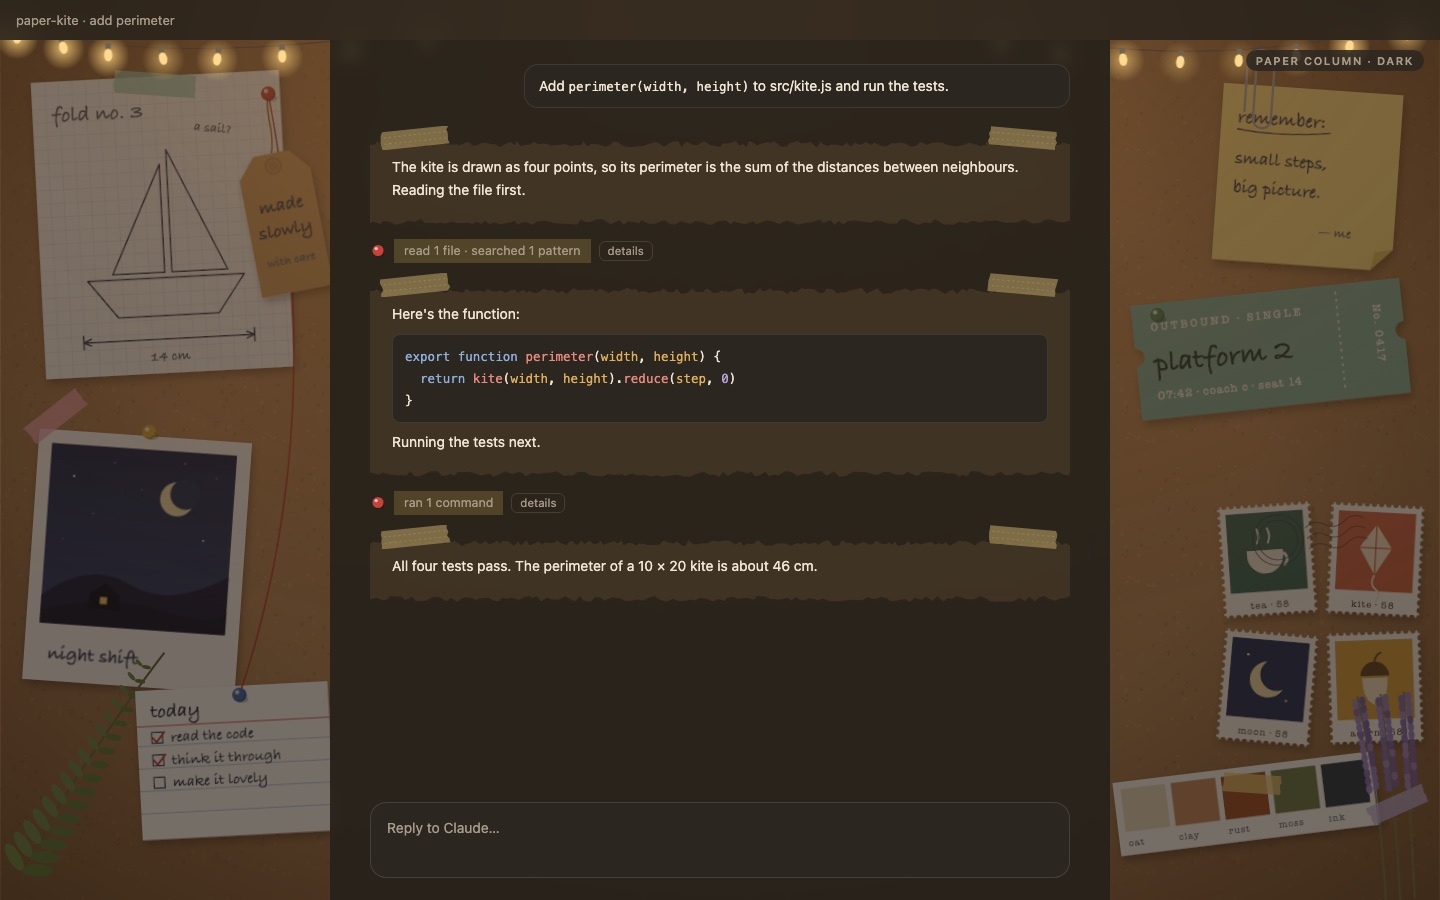
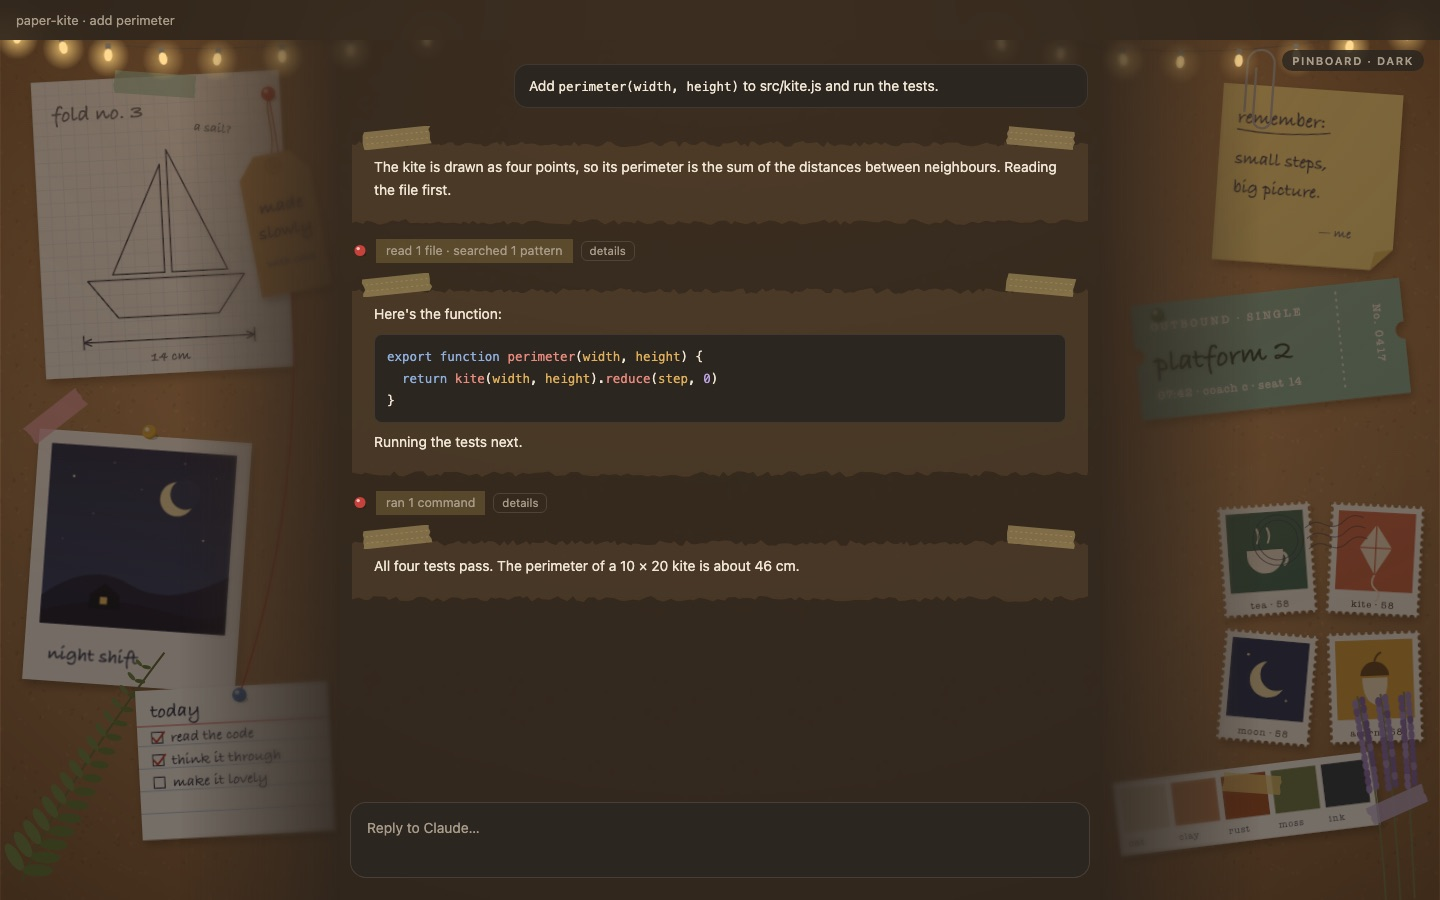
0.3.1: warm kraft-cream column
The app frosts a feathered column under the words; at 90% white it read as
a flat white panel on the cork. Now it takes warmer cream surfaces at 80%
with a light blur, so the cork's grain shows through and it reads as paper.
Fresh previews.

Changed region(s): [[0.1562, 0.0311, 0.9375, 0.9956], [0.375, 0.0933, 0.6562, 0.1244], [0.3438, 0.2489, 0.4375, 0.3111]]

diff --git a/hooks/register.tsx b/hooks/register.tsx
@@ -19,9 +19,9 @@ const { theme, problems } = makeColors({
   light: {
     gray: {
       anchors: {
-        'surface-0': '#efe6d4',
-        'surface-1': '#f5eddd',
-        'surface-2': '#faf5ea',
+        'surface-0': '#e9dbc1',
+        'surface-1': '#ecdcc0',
+        'surface-2': '#f4ead7',
         'text-primary': '#2b231b',
         'text-secondary': '#54483a',
         'text-muted': '#6b5e4d',
@@ -32,7 +32,7 @@ const { theme, problems } = makeColors({
     gray: {
       anchors: {
         'surface-0': '#1d1915',
-        'surface-1': '#25201a',
+        'surface-1': '#2a231b',
         'surface-2': '#2c2620',
         'surface-3': '#312a23',
         'text-primary': '#f0e6d4',
@@ -43,11 +43,12 @@ const { theme, problems } = makeColors({
   },
 })
 
-// The column is a strip of cream paper laid on the board: nearly opaque, so
-// it reads as paper and not as frosted cork.
+// The app frosts a column under the words with its cards' color: kraft
+// cream rather than white, thin enough that the cork's grain shows through,
+// so the column reads as paper on the board and not as a white panel.
 const LOOK: ThemeSetArgs = {
   colors: theme,
-  backdrop: { scene: SCENE, glass: { blur: 6, opacity: 0.9 } },
+  backdrop: { scene: SCENE, glass: { blur: 2, opacity: 0.8 } },
 }
 
 // Each message tears its card the same way every time it is drawn.

diff --git a/README.md b/README.md
@@ -1,6 +1,6 @@
 # Pinboard
 
-A hand-made look for Claude. The conversation is a strip of cream paper laid on a cork board, and the edges of the board hold pinned scraps: a paper-boat plan on graph paper, a polaroid of a cabin under the moon, a hanging kraft tag, an index card, a sticky note, a train ticket, postage stamps, paint swatches, a fern and some lavender.
+A hand-made look for Claude. The conversation sits on a column of warm kraft-cream paper on a cork board, and the edges of the board hold pinned scraps: a paper-boat plan on graph paper, a polaroid of a cabin under the moon, a hanging kraft tag, an index card, a sticky note, a train ticket, postage stamps, paint swatches, a fern and some lavender.
 
 - **Replies on paper**: each block of Claude's reply sits on a torn kraft card held by two strips of washi tape, and each run of tool calls is a strip of tape under a red pin.
 - **Light mode**: warm cork and cream paper, ink-blue accents.
